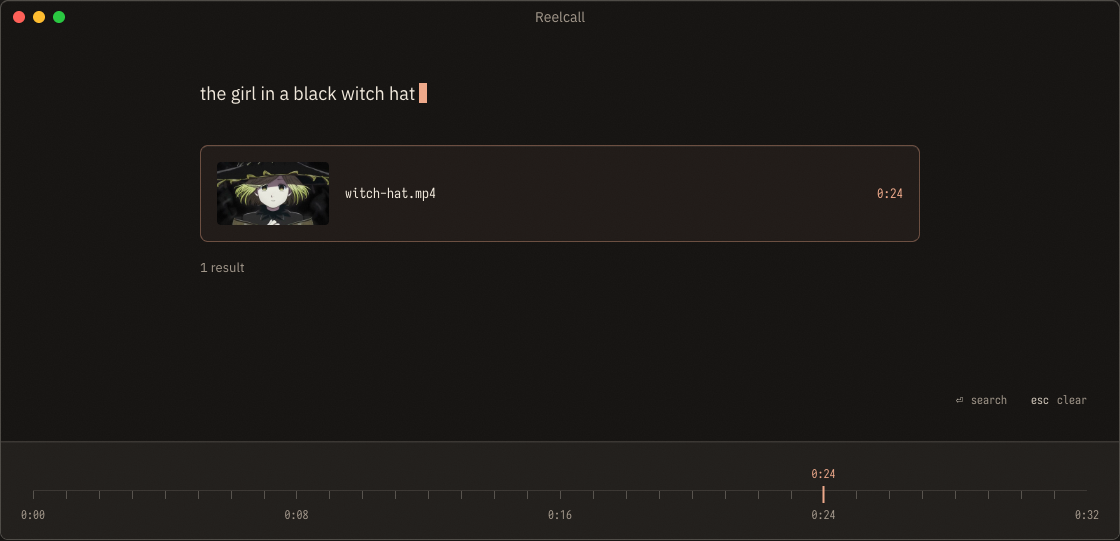
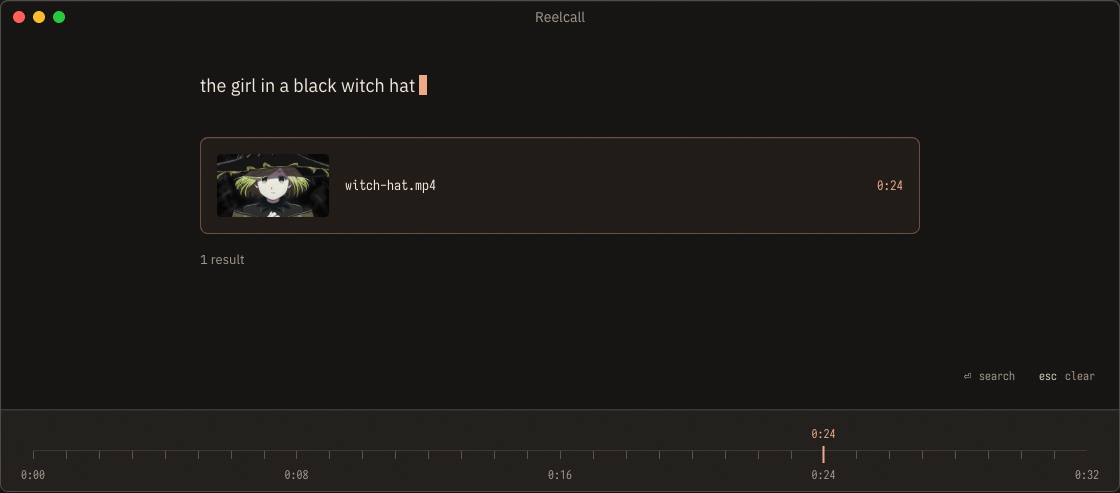
style(web): tighten demo spacing after visual review

diff --git a/web/styles.css b/web/styles.css
@@ -222,7 +222,7 @@ button {
   display: flex;
   flex-direction: column;
   gap: calc(var(--space) * 5);
-  padding: calc(var(--space) * 9) 0 calc(var(--space) * 8);
+  padding: calc(var(--space) * 8) 0 calc(var(--space) * 6);
 }
 
 .hero__tagline {
@@ -387,9 +387,9 @@ button {
 .terminal__screen {
   display: flex;
   flex-direction: column;
-  gap: calc(var(--space) * 3);
-  height: 408px;
-  padding: calc(var(--space) * 4);
+  gap: calc(var(--space) * 2);
+  height: 376px;
+  padding: calc(var(--space) * 3);
   background: var(--bg-inset);
 }
 
@@ -558,7 +558,7 @@ button {
 .player {
   display: block;
   width: 100%;
-  max-width: 480px;
+  max-width: 464px;
   height: auto;
   aspect-ratio: 16 / 9;
   margin-inline: auto;
@@ -569,7 +569,7 @@ button {
 }
 
 .player__caption {
-  margin: 16px 0 0;
+  margin: 8px 0 0;
   font-family: var(--font-mono);
   font-size: 13px;
   color: var(--text-muted);
@@ -598,7 +598,7 @@ button {
 
 /* The rail is a readout of the search, not a draggable control. */
 .timeline {
-  padding: 24px 32px 16px;
+  padding: 16px 32px 8px;
   border-top: 1px solid var(--border);
   background: var(--bg-raised);
   box-shadow: inset 0 1px 0 var(--highlight);

diff --git a/design-notes.md b/design-notes.md
@@ -109,3 +109,56 @@ an unrelated product interview or changing persistent agent settings.
 
 These are local checks. Physical-phone, Safari, assistive-technology, CI, and
 production checks have not run at this stage. No merge or deployment is planned.
+
+## Post-PR visual review
+
+Reviewed the Ghostty pass after opening PR #14. Used the Impeccable and Emil
+guidance in one context. No second agent reviewed this work. These scores are
+design judgments, not user-study results.
+
+| Area | Before | After | Why |
+| --- | --- | --- | --- |
+| Type and scale | 8/10 | 8/10 | Keep the balanced 64px desktop and 36px mobile headline. Preserve all wording. |
+| Color | 8/10 | 8/10 | Keep shared warm neutrals and peach feedback. Native window dots remain the documented exception. |
+| Depth and light | 8/10 | 8/10 | Keep soft layered shadows, bounded warm light, and static grain. |
+| Rhythm | 7/10 | 8/10 | Reduce desktop hero padding from 72px/64px to 64px/48px. Reduce screen gaps from 24px to 16px and padding from 32px to 24px. |
+| Signature detail | 7/10 | 8/10 | Reduce the desktop screen from 408px to 376px, video maximum width from 480px to 464px, caption gap from 16px to 8px, and rail padding from 24px/16px to 16px/8px. The complete rail now fits in the initial 1440 × 1000 view. |
+| Motion | 8/10 | 8/10 | Keep the demo timing, transform and opacity feedback, instant keyboard activation, and static reduced-motion scene. |
+| Mobile layout | 8/10 | 8/10 | Keep the mobile headline and 304px demo screen. Both full install commands wrap without clipping at 375px. |
+| Non-template character | 8/10 | 8/10 | Keep the real clip, product-specific search rail, and Ghostty-style frame. Add no marketing sections. |
+
+The desktop terminal bottom moved from 1058px to 986px. The timeline remains
+visible without an initial scroll at 1440 × 1000. Mobile rail padding is 16px
+shorter in total. The mobile headline, screen size, and video width are unchanged.
+
+### Detector findings
+
+Ran the Impeccable detector after the first visual review. It exited with code 2
+and reported four findings:
+
+- **Italic serif display:** intentional. The brief calls for this editorial headline.
+- **Cramped install padding:** false positive on the parent wrapper. The child
+  layout gives the command text 25px side insets on desktop and 17px on mobile.
+- **Cramped FAQ padding:** false positive. Each bordered row has 24px bottom
+  padding. The last row has no bottom border.
+- **Repeating stripes:** intentional timeline measurement ticks, not a decorative
+  striped background.
+
+The review used screenshots and computed layout values, not a live overlay.
+
+### Final local evidence
+
+- Repeated the formatting, lint, type, package-build, JavaScript syntax, and
+  whitespace checks after the spacing changes. All passed.
+- Repeated desktop and touch-mobile browser checks for the search result,
+  `0:24` landing, keyboard or touch activation, decoded playback, both clipboard
+  commands, reduced motion, and widths from 320px to 1920px. All passed.
+- All four scene layouts fit inside the final screen. Keyboard focus remains
+  visible. Primary navigation, install tabs, and copy controls are 44px high.
+- Checked the specified text-color pairs against their surface colors. The lowest
+  checked ratio is 5.93:1. This is not a complete accessibility audit.
+- Saved final full-page images and normal-motion search crops in `design-refs/`.
+  The matched before and final playback captures use the same decoded frame.
+
+The physical-phone, Safari, assistive-technology, and native browser zoom checks
+remain open. CI status is reported on PR #14. No merge or deployment is included.

diff --git a/design-refs/README.md b/design-refs/README.md
@@ -13,6 +13,7 @@ Reference pages may change after this date.
 | `before-375.png` | Local `web/` at `2f4fa1a` | 375 × 812, full document, touch emulation |
 | `pass1-1440.png`, `pass1-375.png` | First composition study | Same layout widths; see the frame limitation below |
 | `ghostty-pass-1440.png`, `ghostty-pass-375.png` | Ghostty terminal pass, before PR polish | Same viewports as the before shots, full document |
+| `final-1440.png`, `final-375.png` | Final spacing polish after PR review | Same viewports as the before shots, full documents of 1440 × 2044 and 375 × 2013 |
 | `search-1440.png`, `search-375.png` | Normal-motion search result | Terminal crop at each layout width |
 
 The before and final page comparisons use reduced motion to hold the same
